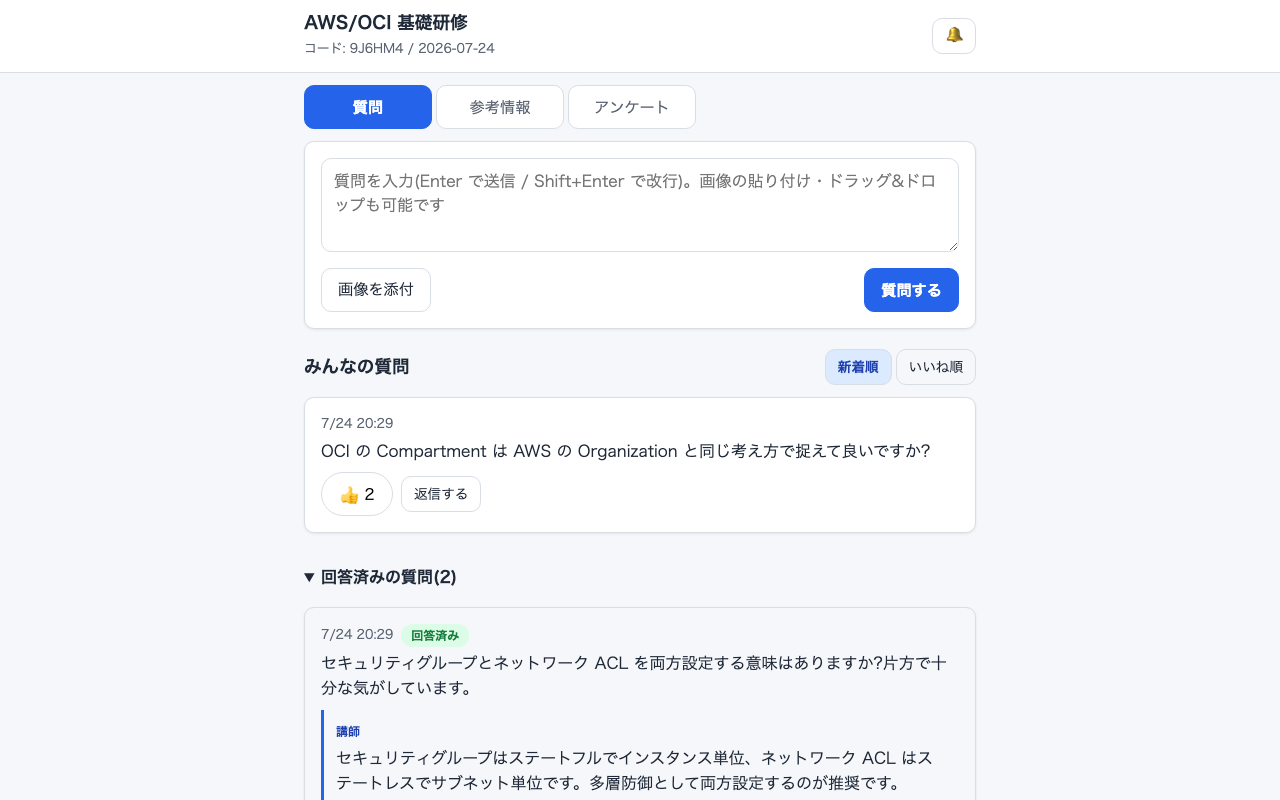
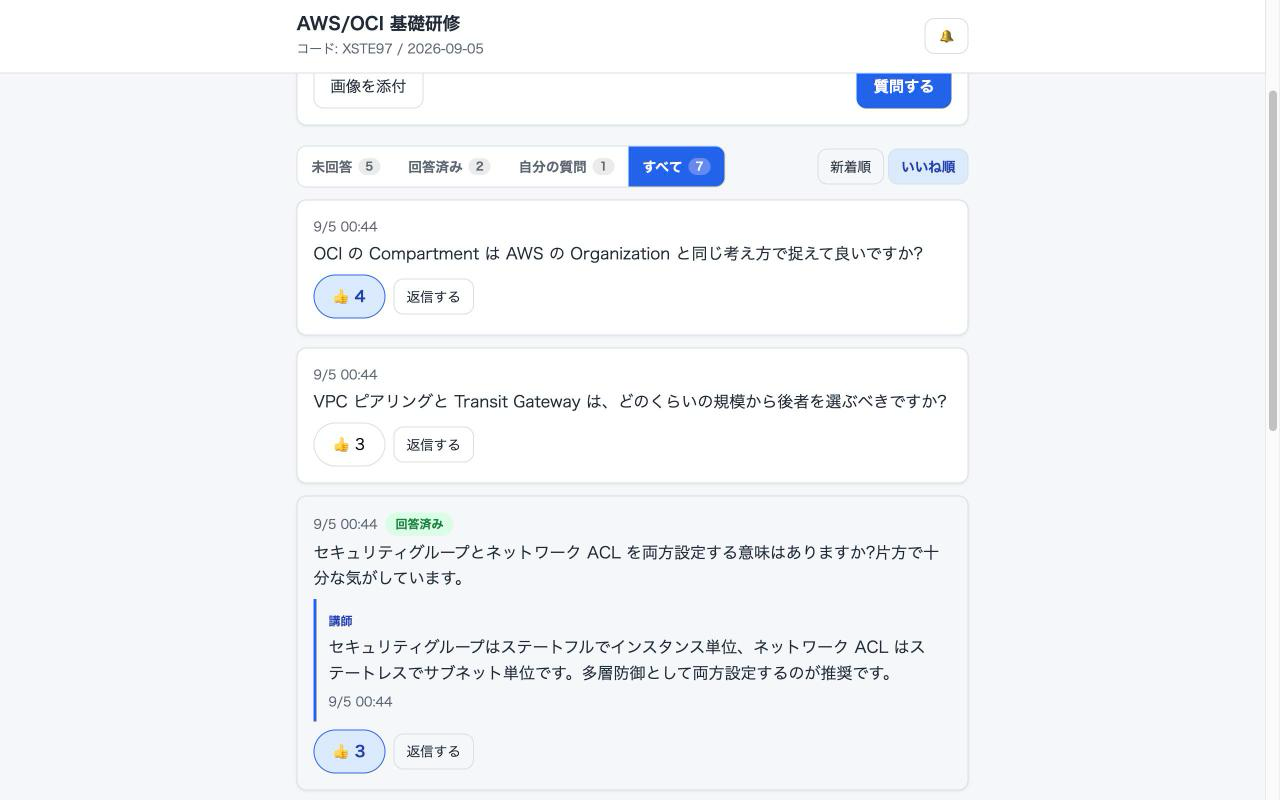
docs: README を新 UI に合わせて更新しスクリーンショットを差し替え
参加者ページの絞り込みタブと画像のライトボックス表示を README にも反映する。
トップの参加者スクリーンショットは「みんなの質問」見出し + 回答済み折りたたみの
旧 UI のままだったため、現行 UI で撮り直した(1280x800、他の画像と同サイズ)。

Claude-Session: https://claude.ai/code/session_01HZHHpYi4fk5ktSaP54EE8M

diff --git a/README.md b/README.md
@@ -7,6 +7,7 @@
 | ![参加者の質問一覧](docs/images/participant-questions.png) | ![講師の投影モード](docs/images/admin-present.png) |
 
 - 匿名質問(画像添付可)・いいね投票・自分の質問の編集/削除
+- 質問一覧は「未回答 / 回答済み / 自分の質問 / すべて」で絞り込み、添付画像はクリックでページ内に拡大表示
 - 講師回答・回答済み管理・リアルタイムアンケート・参考情報共有・テンプレート
 - セッションは作成から 30 日で自動削除(D1 + R2)
 - 仕様の詳細は [requirements.md](requirements.md) を参照
@@ -82,7 +83,9 @@ Turnstile widget の許可ドメイン(ダッシュボード → Turnstile → D
 1. トップページでアクセスコードを入力して入室(Turnstile 検証あり、初回のみ)
 2. 質問を投稿(完全匿名、画像はファイル選択・ペースト・ドラッグ&ドロップで添付可、5MB まで)
 3. 他の人の質問に「いいね」投票、自分の質問は編集・削除が可能
-4. 講師の回答・参考情報・アンケートはリアルタイムに反映される
+4. 質問一覧は「未回答 / 回答済み / 自分の質問 / すべて」の 4 タブで絞り込み(件数バッジ付き)。件数が増えても自分の質問や未回答を追いやすい
+5. 添付画像はクリックするとページ内に拡大表示(Esc または背景クリックで閉じる)。⌘/Ctrl+クリックで従来どおり別タブでも開ける
+6. 講師の回答・参考情報・アンケートはリアルタイムに反映される
 
 セッションは作成から 30 日で自動削除されます(質問・画像を含む)。
 
